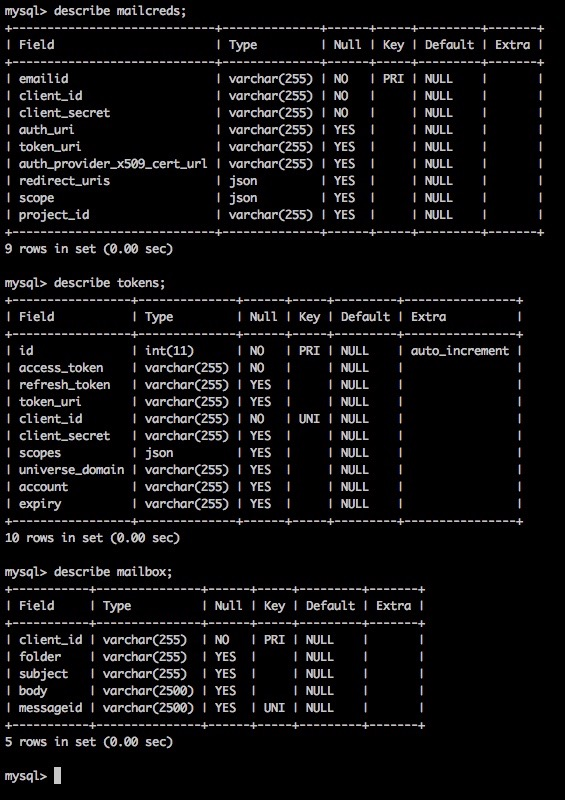
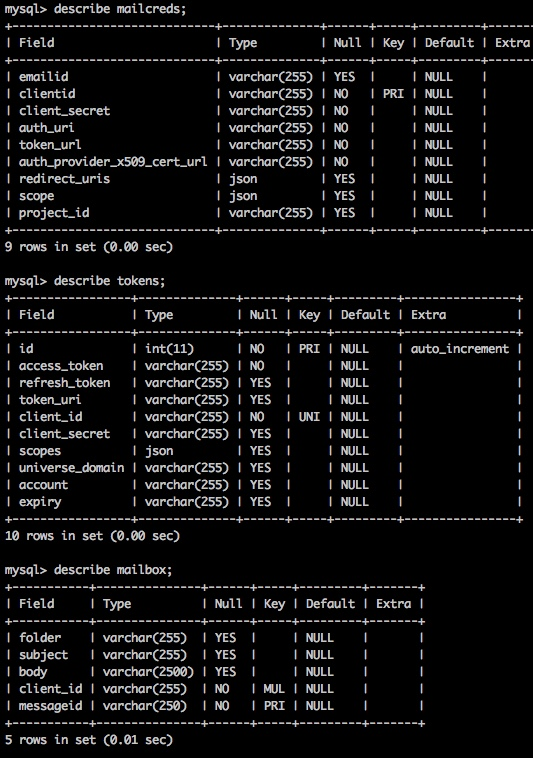
changed image and fixed a bug related to message id

diff --git a/emailActions.py b/emailActions.py
@@ -36,7 +36,7 @@ class Mailbox:
     def get_message(self, message, save) -> None:
         msgTxt = self.mail_service.users().messages().get(userId='me', id=message['id']).execute()
         try:
-            msgDetail = {'subject': '', 'from': '', 'msgId': '', 'body': '', 'folder': 'INBOX'}
+            msgDetail = {'subject': '', 'from': '', 'messageid': '', 'body': '', 'folder': 'INBOX'}
             payload = msgTxt['payload']
             headers = payload['headers']
             for h in headers:
@@ -55,6 +55,7 @@ class Mailbox:
                 print(f"Subject: {msgDetail['subject']}")
                 print(f"From: {msgDetail['from']}")
                 print(f"Body: {msgDetail['body']}")
+                print(f"Message Id: {msgDetail['messageid']}")
                 print('=============')
             else:
                 self.save_message(msgDetail)
